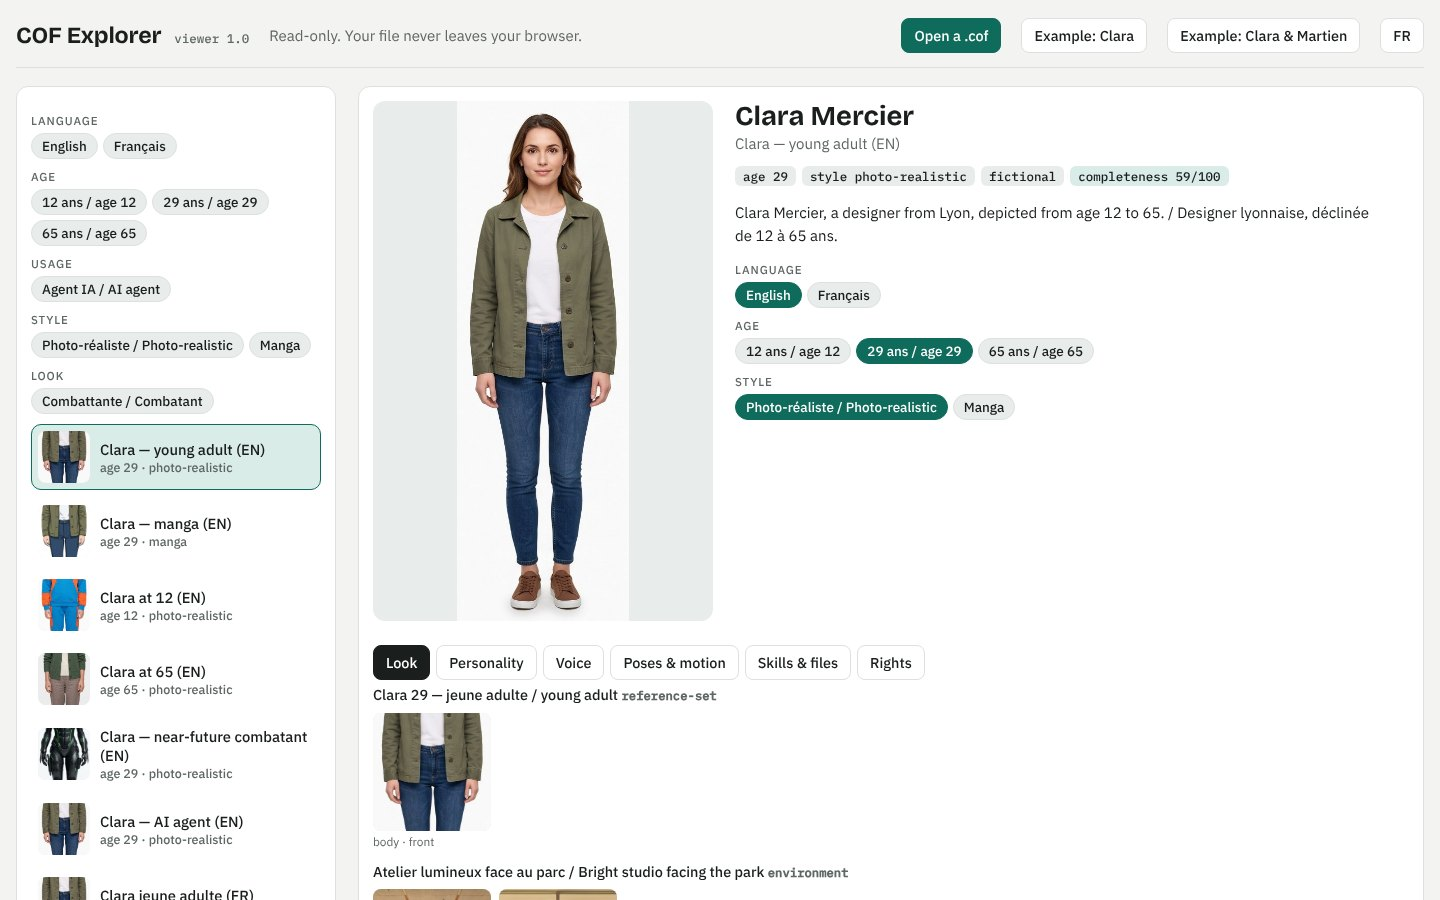
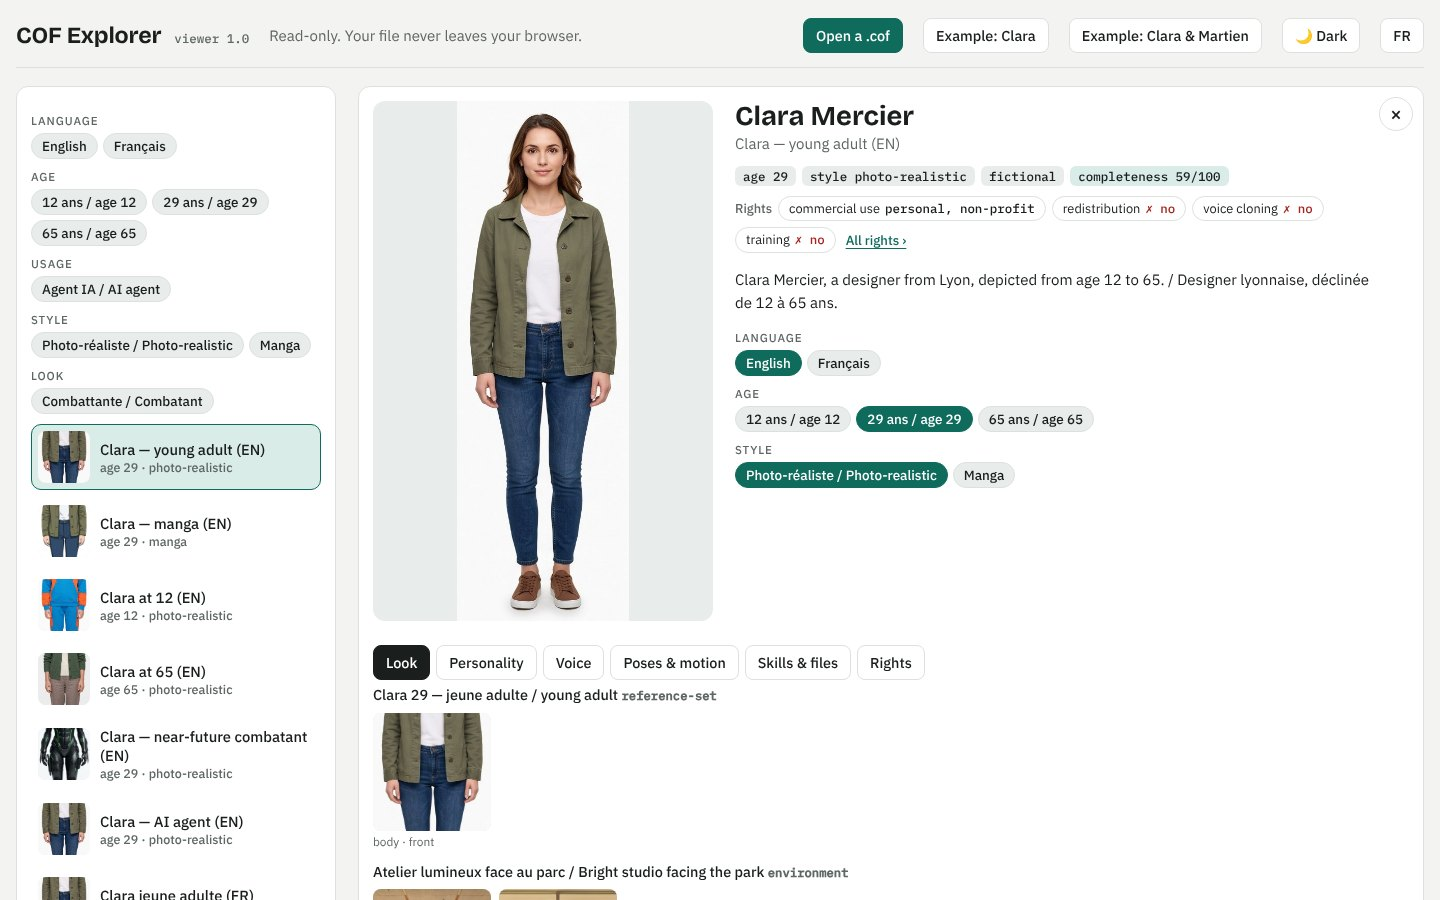
Explorer: light/dark switch, rights summary with a link to all rights, close button back to the drop page; README: uniform buttons
Claude-Session: https://claude.ai/code/session_011NMSVUGQKPFjj1Mbfwud42

diff --git a/viewer/index.html b/viewer/index.html
@@ -62,6 +62,13 @@ aside,main{min-width:0}
 .pcard span{display:block;min-width:0}
 .pcard .t{font-weight:600;font-size:.92rem;overflow-wrap:anywhere}
 .pcard .s{font-size:.78rem;color:var(--muted)}
+[hidden]{display:none!important}
+#main{position:relative}
+#btnClose{position:absolute;top:10px;right:10px;width:34px;height:34px;padding:0;border-radius:50%;font-size:1.25rem;line-height:1;display:flex;align-items:center;justify-content:center;z-index:2}
+.rsum{display:flex;flex-wrap:wrap;align-items:center;gap:6px;margin:10px 0 4px}
+.rsum .rk{display:inline-flex;gap:5px;align-items:baseline;border:1px solid var(--line);border-radius:999px;padding:2px 10px;font-size:.8rem;background:var(--panel)}
+.rsum .rk i{font-style:normal;font-family:var(--mono);font-size:.78rem}
+.rsum .more{border:0;background:none;color:var(--accent);font-size:.82rem;cursor:pointer;padding:2px 4px;text-decoration:underline;text-underline-offset:3px}
 .hero{display:grid;grid-template-columns:minmax(200px,340px) 1fr;gap:22px;align-items:start}
 @media (max-width:640px){.hero{grid-template-columns:1fr}}
 .hero img{width:100%;max-height:520px;object-fit:contain;border-radius:12px;background:var(--chip)}
@@ -104,6 +111,7 @@ dialog::backdrop{background:rgba(0,0,0,.6)}
   <button id="btnOpen" class="primary" data-i="open">Open a .cof</button>
   <button id="btnClara" data-i="sample1">Example: Clara</button>
   <button id="btnDuo" data-i="sample2">Example: Clara &amp; Martien</button>
+  <button id="btnTheme" aria-label="Light / dark"></button>
   <button id="btnLang" aria-label="Language">FR</button>
   <input id="file" type="file" accept=".cof,application/zip" hidden>
 </header>
@@ -131,14 +139,18 @@ dialog::backdrop{background:rgba(0,0,0,.6)}
 <script>
 "use strict";
 /* ---------- i18n ---------- */
-const T={en:{},fr:{tagline:"Lecture seule. Votre fichier ne quitte pas votre navigateur.",open:"Ouvrir un .cof",sample1:"Exemple : Clara",sample2:"Exemple : Clara et Martien",dropTitle:"Déposez un fichier .cof ici",dropText:"Un .cof est un fichier ouvert qui contient tout un personnage IA — personnalité, apparence, voix, poses, compétences d'agent — et ses droits. Ouvrez-en un pour parcourir ses presets, changer de langue ou d'âge en un clic, et voir ce que son auteur autorise.",build:"Créer le vôtre avec le builder →",noValidate:"Cet explorateur lit les fichiers ; il ne les valide pas. Utilisez cof validate pour cela.",
+const T={en:{},fr:{rightsShort:"Droits",allRights:"Tous les droits ›",commercial:"usage commercial",redistrib:"redistribution",voiceClone:"clonage de voix",training:"entraînement",close:"Fermer ce fichier",nonProfit:"personnel, non lucratif",personalProfit:"personnel, lucratif",corporation:"autorisé",dark:"🌙 Sombre",light:"☀ Clair",yesW:"oui",noW:"non",tagline:"Lecture seule. Votre fichier ne quitte pas votre navigateur.",open:"Ouvrir un .cof",sample1:"Exemple : Clara",sample2:"Exemple : Clara et Martien",dropTitle:"Déposez un fichier .cof ici",dropText:"Un .cof est un fichier ouvert qui contient tout un personnage IA — personnalité, apparence, voix, poses, compétences d'agent — et ses droits. Ouvrez-en un pour parcourir ses presets, changer de langue ou d'âge en un clic, et voir ce que son auteur autorise.",build:"Créer le vôtre avec le builder →",noValidate:"Cet explorateur lit les fichiers ; il ne les valide pas. Utilisez cof validate pour cela.",
 look:"Apparence",offered:"Proposé avec ce preset",personality:"Personnalité",voice:"Voix",poses:"Poses et mouvements",files:"Compétences et fichiers",rights:"Droits",about:"Fiche",presets:"Presets",age:"âge",noAge:"âge non déclaré",intimate:"Un élément intime existe pour ce preset ; l'explorateur ne l'affiche jamais.",switchTo:"Changer",none:"aucun",style:"style",completeness:"complétude",backstage:"Éléments en coulisses (cités par aucun preset)",yes:"oui",no:"non",characters:"Personnages",loading:"Lecture…",badFile:"Ce fichier n'est pas un .cof lisible : ",fictional:"fictif",real:"personne réelle",consent:"consentement enregistré",noConsent:"pas de consentement enregistré",download:"Le fichier d'exemple n'a pas pu être chargé (page ouverte hors ligne ?) — ouvrez un .cof avec le bouton ou glissez-le ici. Détail : ",
 perm:{avatarPermission:"Qui peut l'incarner",commercialUsage:"Usage commercial",modification:"Modification",allowRedistribution:"Redistribution",creditNotation:"Crédit",allowExcessivelyViolentUsage:"Violence excessive",allowSexualUsage:"Usage sexuel",allowPoliticalOrReligiousUsage:"Usage politique ou religieux",allowAntisocialOrHateUsage:"Usage haineux",allowVoiceCloning:"Clonage de la voix",allowTraining:"Entraînement",allowImpersonationOfRealPerson:"Usurper une personne réelle",aiDisclosure:"Signaler que c'est une IA",ageRating:"Classification",minUserAge:"Âge minimum de l'utilisateur"}}};
-const EN={look:"Look",offered:"Offered with this preset",personality:"Personality",voice:"Voice",poses:"Poses & motion",files:"Skills & files",rights:"Rights",about:"Card",presets:"Presets",age:"age",noAge:"age not declared",intimate:"An intimate element exists for this preset; the explorer never displays it.",switchTo:"Switch",none:"none",style:"style",completeness:"completeness",backstage:"Backstage elements (used by no preset)",yes:"yes",no:"no",characters:"Characters",loading:"Reading…",badFile:"This file is not a readable .cof: ",fictional:"fictional",real:"real person",consent:"consent recorded",noConsent:"no consent recorded",download:"The example file could not be loaded (page opened offline?) — open a .cof with the button or drop it here. Details: ",
+const EN={yesW:"yes",noW:"no",rightsShort:"Rights",allRights:"All rights ›",commercial:"commercial use",redistrib:"redistribution",voiceClone:"voice cloning",training:"training",close:"Close this file",nonProfit:"personal, non-profit",personalProfit:"personal, for profit",corporation:"allowed",dark:"🌙 Dark",light:"☀ Light",look:"Look",offered:"Offered with this preset",personality:"Personality",voice:"Voice",poses:"Poses & motion",files:"Skills & files",rights:"Rights",about:"Card",presets:"Presets",age:"age",noAge:"age not declared",intimate:"An intimate element exists for this preset; the explorer never displays it.",switchTo:"Switch",none:"none",style:"style",completeness:"completeness",backstage:"Backstage elements (used by no preset)",yes:"yes",no:"no",characters:"Characters",loading:"Reading…",badFile:"This file is not a readable .cof: ",fictional:"fictional",real:"real person",consent:"consent recorded",noConsent:"no consent recorded",download:"The example file could not be loaded (page opened offline?) — open a .cof with the button or drop it here. Details: ",
 perm:{avatarPermission:"Who may embody it",commercialUsage:"Commercial use",modification:"Modification",allowRedistribution:"Redistribution",creditNotation:"Credit",allowExcessivelyViolentUsage:"Excessive violence",allowSexualUsage:"Sexual use",allowPoliticalOrReligiousUsage:"Political or religious use",allowAntisocialOrHateUsage:"Hateful use",allowVoiceCloning:"Voice cloning",allowTraining:"Training",allowImpersonationOfRealPerson:"Impersonate a real person",aiDisclosure:"Disclose it is an AI",ageRating:"Rating",minUserAge:"Minimum user age"}};
 let LANG="en";try{LANG=localStorage.getItem("cofv-lang")||((navigator.language||"").startsWith("fr")?"fr":"en")}catch(e){}
 const tr=k=>(LANG==="fr"?T.fr[k]:EN[k])??EN[k]??k;
-function applyLang(){document.documentElement.lang=LANG;document.querySelectorAll("[data-i]").forEach(el=>{const v=LANG==="fr"?T.fr[el.dataset.i]:null;if(!el.dataset.en)el.dataset.en=el.innerHTML;el.innerHTML=v??el.dataset.en});document.getElementById("btnLang").textContent=LANG==="fr"?"EN":"FR";if(M)render()}
+function applyLang(){document.documentElement.lang=LANG;document.querySelectorAll("[data-i]").forEach(el=>{const v=LANG==="fr"?T.fr[el.dataset.i]:null;if(!el.dataset.en)el.dataset.en=el.innerHTML;el.innerHTML=v??el.dataset.en});document.getElementById("btnLang").textContent=LANG==="fr"?"EN":"FR";window.paintTheme&&window.paintTheme();if(M)render()}
+(function(){const root=document.documentElement;let saved=null;try{saved=localStorage.getItem("cof-theme")}catch(e){}if(saved==="dark"||saved==="light")root.dataset.theme=saved;
+  const isDark=()=>root.dataset.theme==="dark"||(!root.dataset.theme&&window.matchMedia&&window.matchMedia("(prefers-color-scheme: dark)").matches);
+  const b=document.getElementById("btnTheme");window.paintTheme=()=>{b.textContent=isDark()?tr("light"):tr("dark")};
+  b.onclick=()=>{root.dataset.theme=isDark()?"light":"dark";try{localStorage.setItem("cof-theme",root.dataset.theme)}catch(e){}window.paintTheme()};window.paintTheme()})();
 document.getElementById("btnLang").onclick=()=>{LANG=LANG==="fr"?"en":"fr";try{localStorage.setItem("cofv-lang",LANG)}catch(e){}applyLang()};
 
 /* ---------- ZIP (stored + deflate, via DecompressionStream) ---------- */
@@ -184,6 +196,22 @@ function defaultIdentity(){return M.default_identity||Object.keys(ids())[0]||nul
 function presetOwner(pid){return inherited(pid,"identity")||defaultIdentity()}
 function variantOwner(cat,vid){const v=resolveVariant(cat,vid);return (v&&v.identity)||defaultIdentity()}
 function identityOf(iid){const I=ids()[iid];return I?{...I}:{name:M.name,nickname:M.nickname,summary:M.summary,fictional:M.fictional,morphology:M.morphology,consent:(M.rights||{}).consent}}
+function rightsSummary(pm){
+  const yn=v=>v?`<i class="yes">✓ ${tr("yesW")}</i>`:`<i class="no">✗ ${tr("noW")}</i>`;
+  const cu={personalNonProfit:tr("nonProfit"),personalProfit:tr("personalProfit"),corporation:tr("corporation")}[pm.commercialUsage];
+  const tz=pm.allowTraining&&pm.allowTraining!=="none";
+  const items=[];
+  if(pm.commercialUsage)items.push(`<span class="rk">${tr("commercial")} <i class="${pm.commercialUsage==="corporation"?"yes":""}">${esc(cu||pm.commercialUsage)}</i></span>`);
+  if("allowRedistribution" in pm)items.push(`<span class="rk">${tr("redistrib")} ${yn(pm.allowRedistribution)}</span>`);
+  if("allowVoiceCloning" in pm)items.push(`<span class="rk">${tr("voiceClone")} ${yn(pm.allowVoiceCloning)}</span>`);
+  if("allowTraining" in pm)items.push(`<span class="rk">${tr("training")} ${tz?`<i class="yes">✓ ${esc(pm.allowTraining)}</i>`:yn(false)}</span>`);
+  return items.join("");
+}
+function closeFile(){
+  for(const u of urls.values())URL.revokeObjectURL(u);urls.clear();
+  M=null;Z=null;curPreset=null;document.getElementById("app").hidden=true;document.getElementById("drop").hidden=false;
+  document.getElementById("file").value="";window.scrollTo(0,0);
+}
 function permsOf(pid){const iid=presetOwner(pid);const r=(ids()[iid]||{}).rights||M.rights||{};return {...(r.permissions||{}),...(P()[pid].permissions_override||{})}}
 function primaryImage(pid){const NS=nudeSet();const e=inherited(pid,"primary_image");if(e&&A()[e]&&!NS.has(e))return e;const r=resolved(slots(pid));for(const k of ["face","reference-set","character-sheet","body"])for(const v of (r.appearance||[]).filter(x=>x.kind===k))for(const i of v.images||[])if(A()[i]&&!NS.has(i)&&String(A()[i].mediaType||"").startsWith("image/"))return i;return null}
 const tags=()=>M.preset_tags||[];
@@ -255,13 +283,15 @@ async function renderPreset(){
   const pimNude=pim&&nudeSet().has(pim);let h=`<div class="hero"><div>${pimU?(pimNude?`<span class="nudewrap"><img src="${pimU}" alt="${esc(p.label||pid)}" class="nude" data-reveal><span>${LANG==="fr"?"nudité — cliquer pour afficher":"nudity — click to show"}</span></span>`:`<img src="${pimU}" alt="${esc(p.label||pid)}" data-zoom>`):`<div class="ph" style="aspect-ratio:3/4;background:var(--chip);border-radius:12px"></div>`}</div><div>
     <h2>${esc(I.name||M.name)}</h2><div class="muted">${esc(p.label||pid)}</div>
     <div class="badges"><span class="badge">${age===null?tr("noAge"):tr("age")+" "+Math.floor(age)}</span>${p.style?`<span class="badge">${tr("style")} ${esc(p.style)}</span>`:""}<span class="badge">${I.fictional===false?tr("real"):tr("fictional")}</span>${I.fictional===false?`<span class="badge ${I.consent?"ok":"warn"}">${I.consent?tr("consent"):tr("noConsent")}</span>`:""}${typeof comp==="number"?`<span class="badge ok">${tr("completeness")} ${comp}/100</span>`:""}</div>
+    <div class="rsum"><b class="muted" style="font-size:.8rem">${tr("rightsShort")}</b>${rightsSummary(perms)}<button class="more" data-tab="rights">${tr("allRights")}</button></div>
     <p class="text">${esc(I.summary||M.summary||"")}</p>${sw.join("")}
     ${hasIntimate?`<p class="note">${tr("intimate")}</p>`:""}</div></div>`;
   const tabs=[["look",tr("look")],["personality",tr("personality")],["voice",tr("voice")],["poses",tr("poses")],["files",tr("files")],["rights",tr("rights")]];
   h+=`<div class="tabs" role="tablist">${tabs.map(([k,l])=>`<button role="tab" aria-selected="${k===tab}" data-tab="${k}">${l}</button>`).join("")}</div><div id="tabBody"></div>`;
-  main.innerHTML=h;
+  main.innerHTML=`<button id="btnClose" title="${tr("close")}" aria-label="${tr("close")}">×</button>`+h;
+  document.getElementById("btnClose").onclick=closeFile;
   main.querySelectorAll("[data-go]").forEach(b=>b.onclick=()=>{curPreset=b.dataset.go;render()});
-  main.querySelectorAll("[data-tab]").forEach(b=>b.onclick=()=>{tab=b.dataset.tab;renderPreset()});
+  main.querySelectorAll("[data-tab]").forEach(b=>b.onclick=async()=>{const more=b.classList.contains("more");tab=b.dataset.tab;await renderPreset();if(more)document.querySelector("#main .tabs")?.scrollIntoView({behavior:"smooth",block:"start"})});
   const body=main.querySelector("#tabBody");let t="";
   const label=v=>esc(v.label||v.kind);
   if(tab==="look"){

diff --git a/tools/readme-figures/figures.html b/tools/readme-figures/figures.html
@@ -26,6 +26,8 @@ svg.wires{position:absolute;inset:0}
 .note b{color:var(--ink);font-weight:500}
 .pill{display:inline-block;padding:6px 18px;border-radius:999px;border:2px solid var(--line);color:var(--muted);font:500 20px Plex,sans-serif;margin:0 4px}
 .pill.on{background:var(--teal);border-color:var(--teal);color:#05201b}
+.btnimg{display:inline-flex;align-items:center;justify-content:center;gap:12px;width:330px;height:64px;border-radius:16px;background:#0d1312;border:1.5px solid #2a3533;color:#eef3f1;font:500 22px Plex,sans-serif;margin:8px;box-sizing:border-box}
+.btnimg i{font-style:normal;color:#4cc2a8;font-weight:500}
 </style></head><body>
 
 <!-- 1. What's in a .cof -->
@@ -63,6 +65,14 @@ svg.wires{position:absolute;inset:0}
   <svg style="position:absolute;left:0;top:0" width="1600" height="860"><line x1="800" y1="600" x2="800" y2="666" stroke="#4cc2a8" stroke-opacity=".55" stroke-width="2.5" stroke-dasharray="6 6"/></svg><div class="card teal" style="left:560px;top:666px;width:480px;text-align:center"><b>cof validate</b><span>ages · rights · hashes · scripts</span></div>
 </div>
 
+<div id="buttons">
+<span class="btnimg" id="btn-explore">Explore a .cof <i>→</i></span>
+<span class="btnimg" id="btn-build">Build in your browser <i>→</i></span>
+<span class="btnimg" id="btn-comfyui">ComfyUI nodes <i>→</i></span>
+<span class="btnimg" id="btn-explore-fr">Explorer un .cof <i>→</i></span>
+<span class="btnimg" id="btn-build-fr">Créer dans le navigateur <i>→</i></span>
+<span class="btnimg" id="btn-comfyui-fr">Nœuds ComfyUI <i>→</i></span>
+</div>
 <script>
 // connectors: from each card's inner edge to the file icon
 for (const fig of document.querySelectorAll(".fig")) {

diff --git a/tools/readme-figures/render.py b/tools/readme-figures/render.py
@@ -22,6 +22,10 @@ async def main():
         await pg.goto(f"{BASE}/tools/readme-figures/figures.html"); await pg.evaluate("document.fonts.ready"); await pg.wait_for_timeout(400)
         for fid in ("contents", "tools"):
             await pg.locator(f"#{fid}").screenshot(path=str(OUT / f"cof-{fid}.png"), omit_background=True)
+        btn = await br.new_page(viewport={"width": 1700, "height": 1000}, device_scale_factor=2)
+        await btn.goto(f"{BASE}/tools/readme-figures/figures.html"); await btn.evaluate("document.fonts.ready"); await btn.wait_for_timeout(300)
+        for el in await btn.locator(".btnimg").all():
+            await el.screenshot(path=str(OUT / f"{await el.get_attribute('id')}.png"), omit_background=True)
         clip = await br.new_page(viewport={"width": 1920, "height": 1080})
         await clip.goto(f"{BASE}/clip/index.html?render"); await clip.evaluate("document.fonts.ready"); await clip.wait_for_timeout(500)
         for name, t in (("presets", 20.5), ("rights", 26.5), ("cast", 31.0)):

diff --git a/README.fr.md b/README.fr.md
@@ -5,9 +5,9 @@
 <p align="center"><b>Un personnage = un fichier. Ouvert, portable, consenti.</b></p>
 
 <p align="center">
-<a href="https://yannsouetre.github.io/cof/viewer/"><img alt="Explorer un .cof" src="https://img.shields.io/badge/Explorer-un%20.cof-4cc2a8?style=for-the-badge&labelColor=0d1312"></a>
-<a href="https://yannsouetre.github.io/cof/builder/"><img alt="En créer un dans le navigateur" src="https://img.shields.io/badge/Cr%C3%A9er-dans%20le%20navigateur-4cc2a8?style=for-the-badge&labelColor=0d1312"></a>
-<a href="https://github.com/yannsouetre/ComfyUI-COF"><img alt="Nœuds ComfyUI" src="https://img.shields.io/badge/ComfyUI-n%C5%93uds-a98ae8?style=for-the-badge&labelColor=0d1312"></a>
+<a href="https://yannsouetre.github.io/cof/viewer/"><img src="docs/img/btn-explore-fr.png" alt="Explorer un .cof" width="250"></a>&nbsp;&nbsp;&nbsp;
+<a href="https://yannsouetre.github.io/cof/builder/"><img src="docs/img/btn-build-fr.png" alt="Créer dans le navigateur" width="250"></a>&nbsp;&nbsp;&nbsp;
+<a href="https://github.com/yannsouetre/ComfyUI-COF"><img src="docs/img/btn-comfyui-fr.png" alt="Nœuds ComfyUI" width="250"></a>
 </p>
 
 <p align="center"><a href="https://yannsouetre.github.io/cof/#clip">▶ Voir le clip de 38 secondes, avec le son</a> · <a href="README.md">English</a></p>

diff --git a/README.md b/README.md
@@ -5,9 +5,9 @@
 <p align="center"><b>One character = one file. Open, portable, consented.</b></p>
 
 <p align="center">
-<a href="https://yannsouetre.github.io/cof/viewer/"><img alt="Explore a .cof" src="https://img.shields.io/badge/Explore-a%20.cof-4cc2a8?style=for-the-badge&labelColor=0d1312"></a>
-<a href="https://yannsouetre.github.io/cof/builder/"><img alt="Build one in your browser" src="https://img.shields.io/badge/Build-in%20your%20browser-4cc2a8?style=for-the-badge&labelColor=0d1312"></a>
-<a href="https://github.com/yannsouetre/ComfyUI-COF"><img alt="ComfyUI nodes" src="https://img.shields.io/badge/ComfyUI-nodes-a98ae8?style=for-the-badge&labelColor=0d1312"></a>
+<a href="https://yannsouetre.github.io/cof/viewer/"><img src="docs/img/btn-explore.png" alt="Explore a .cof" width="250"></a>&nbsp;&nbsp;&nbsp;
+<a href="https://yannsouetre.github.io/cof/builder/"><img src="docs/img/btn-build.png" alt="Build in your browser" width="250"></a>&nbsp;&nbsp;&nbsp;
+<a href="https://github.com/yannsouetre/ComfyUI-COF"><img src="docs/img/btn-comfyui.png" alt="ComfyUI nodes" width="250"></a>
 </p>
 
 <p align="center"><a href="https://yannsouetre.github.io/cof/#clip">▶ Watch the 38-second clip, with sound</a> · <a href="README.fr.md">Français</a></p>
